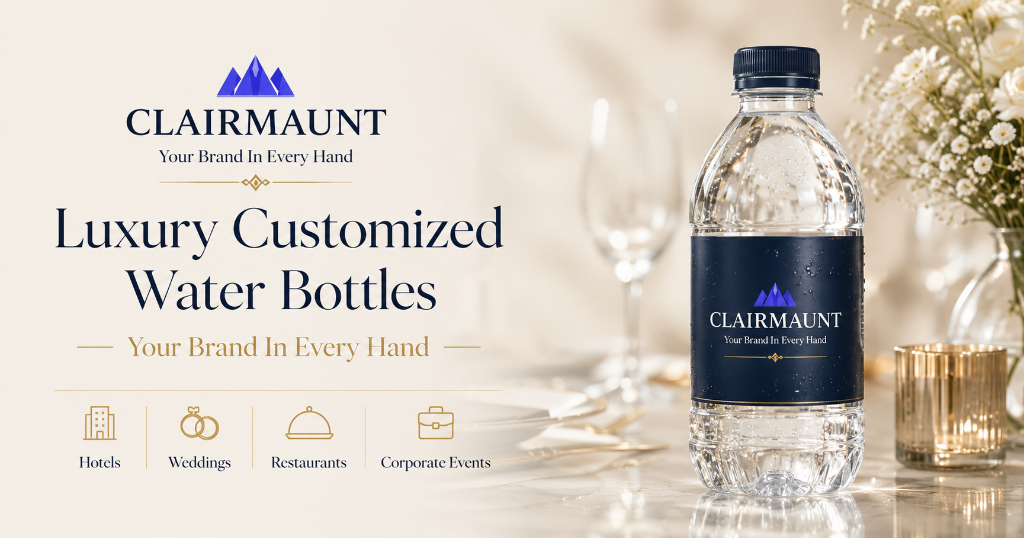
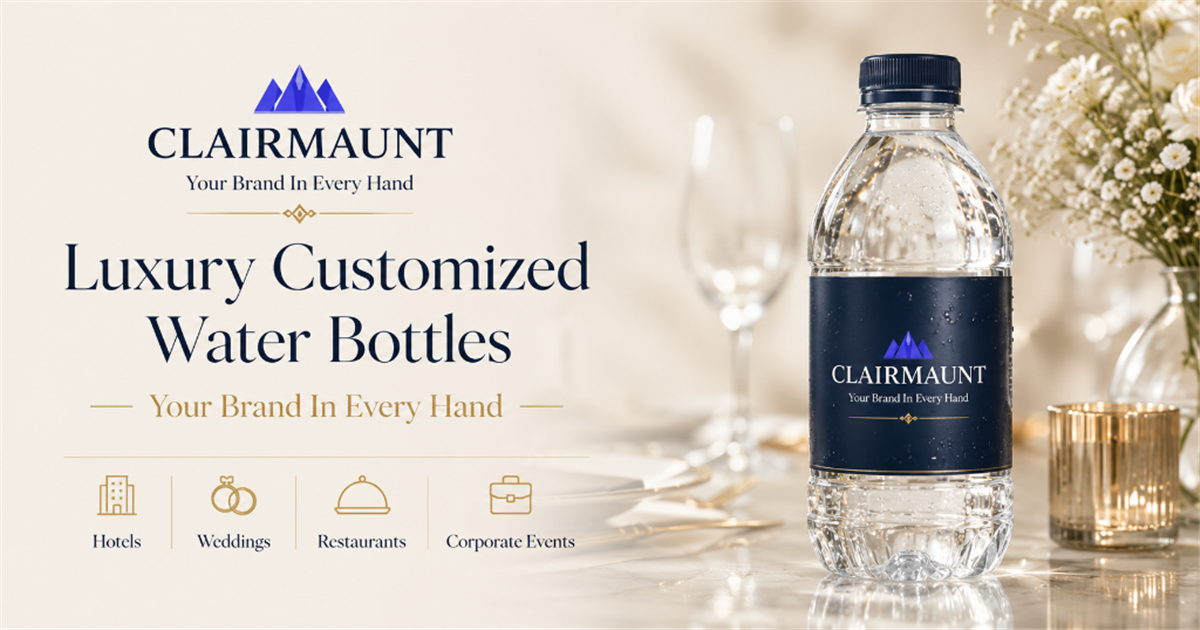
Optimize Open Graph image resolution to 1200x630px and add cache-busting version parameter

diff --git a/index.html b/index.html
@@ -16,7 +16,7 @@
 <meta property="og:url" content="https://clairmaunt.com/"/>
 <meta property="og:title" content="CLAIRMAUNT | Luxury Customized Water Bottles"/>
 <meta property="og:description" content="Transform every bottle into a powerful brand experience. Premium custom-labelled water bottles for hotels, resorts, restaurants, weddings, corporate events, exhibitions and hospitality brands."/>
-<meta property="og:image" content="https://clairmaunt.com/public/assets/og-image.png"/>
+<meta property="og:image" content="https://clairmaunt.com/public/assets/og-image.png?v=2"/>
 <meta property="og:image:width" content="1200"/>
 <meta property="og:image:height" content="630"/>
 <meta property="og:site_name" content="ClairMaunt"/>
@@ -26,7 +26,7 @@
 <meta name="twitter:url" content="https://clairmaunt.com/"/>
 <meta name="twitter:title" content="CLAIRMAUNT | Luxury Customized Water Bottles"/>
 <meta name="twitter:description" content="Transform every bottle into a powerful brand experience. Premium custom-labelled water bottles for hotels, resorts, restaurants, weddings, corporate events, exhibitions and hospitality brands."/>
-<meta name="twitter:image" content="https://clairmaunt.com/public/assets/og-image.png"/>
+<meta name="twitter:image" content="https://clairmaunt.com/public/assets/og-image.png?v=2"/>
 
 <link rel="preload" href="/public/assets/clairmaunt_hero_premium_bottle_blended_mobile.webp" as="image" imagesrcset="/public/assets/clairmaunt_hero_premium_bottle_blended_mobile.webp 480w, /public/assets/clairmaunt_hero_premium_bottle_blended.webp 1000w" imagesizes="(max-width: 640px) 480px, 1000px" fetchpriority="high" />
 <link rel="preconnect" href="https://fonts.googleapis.com">